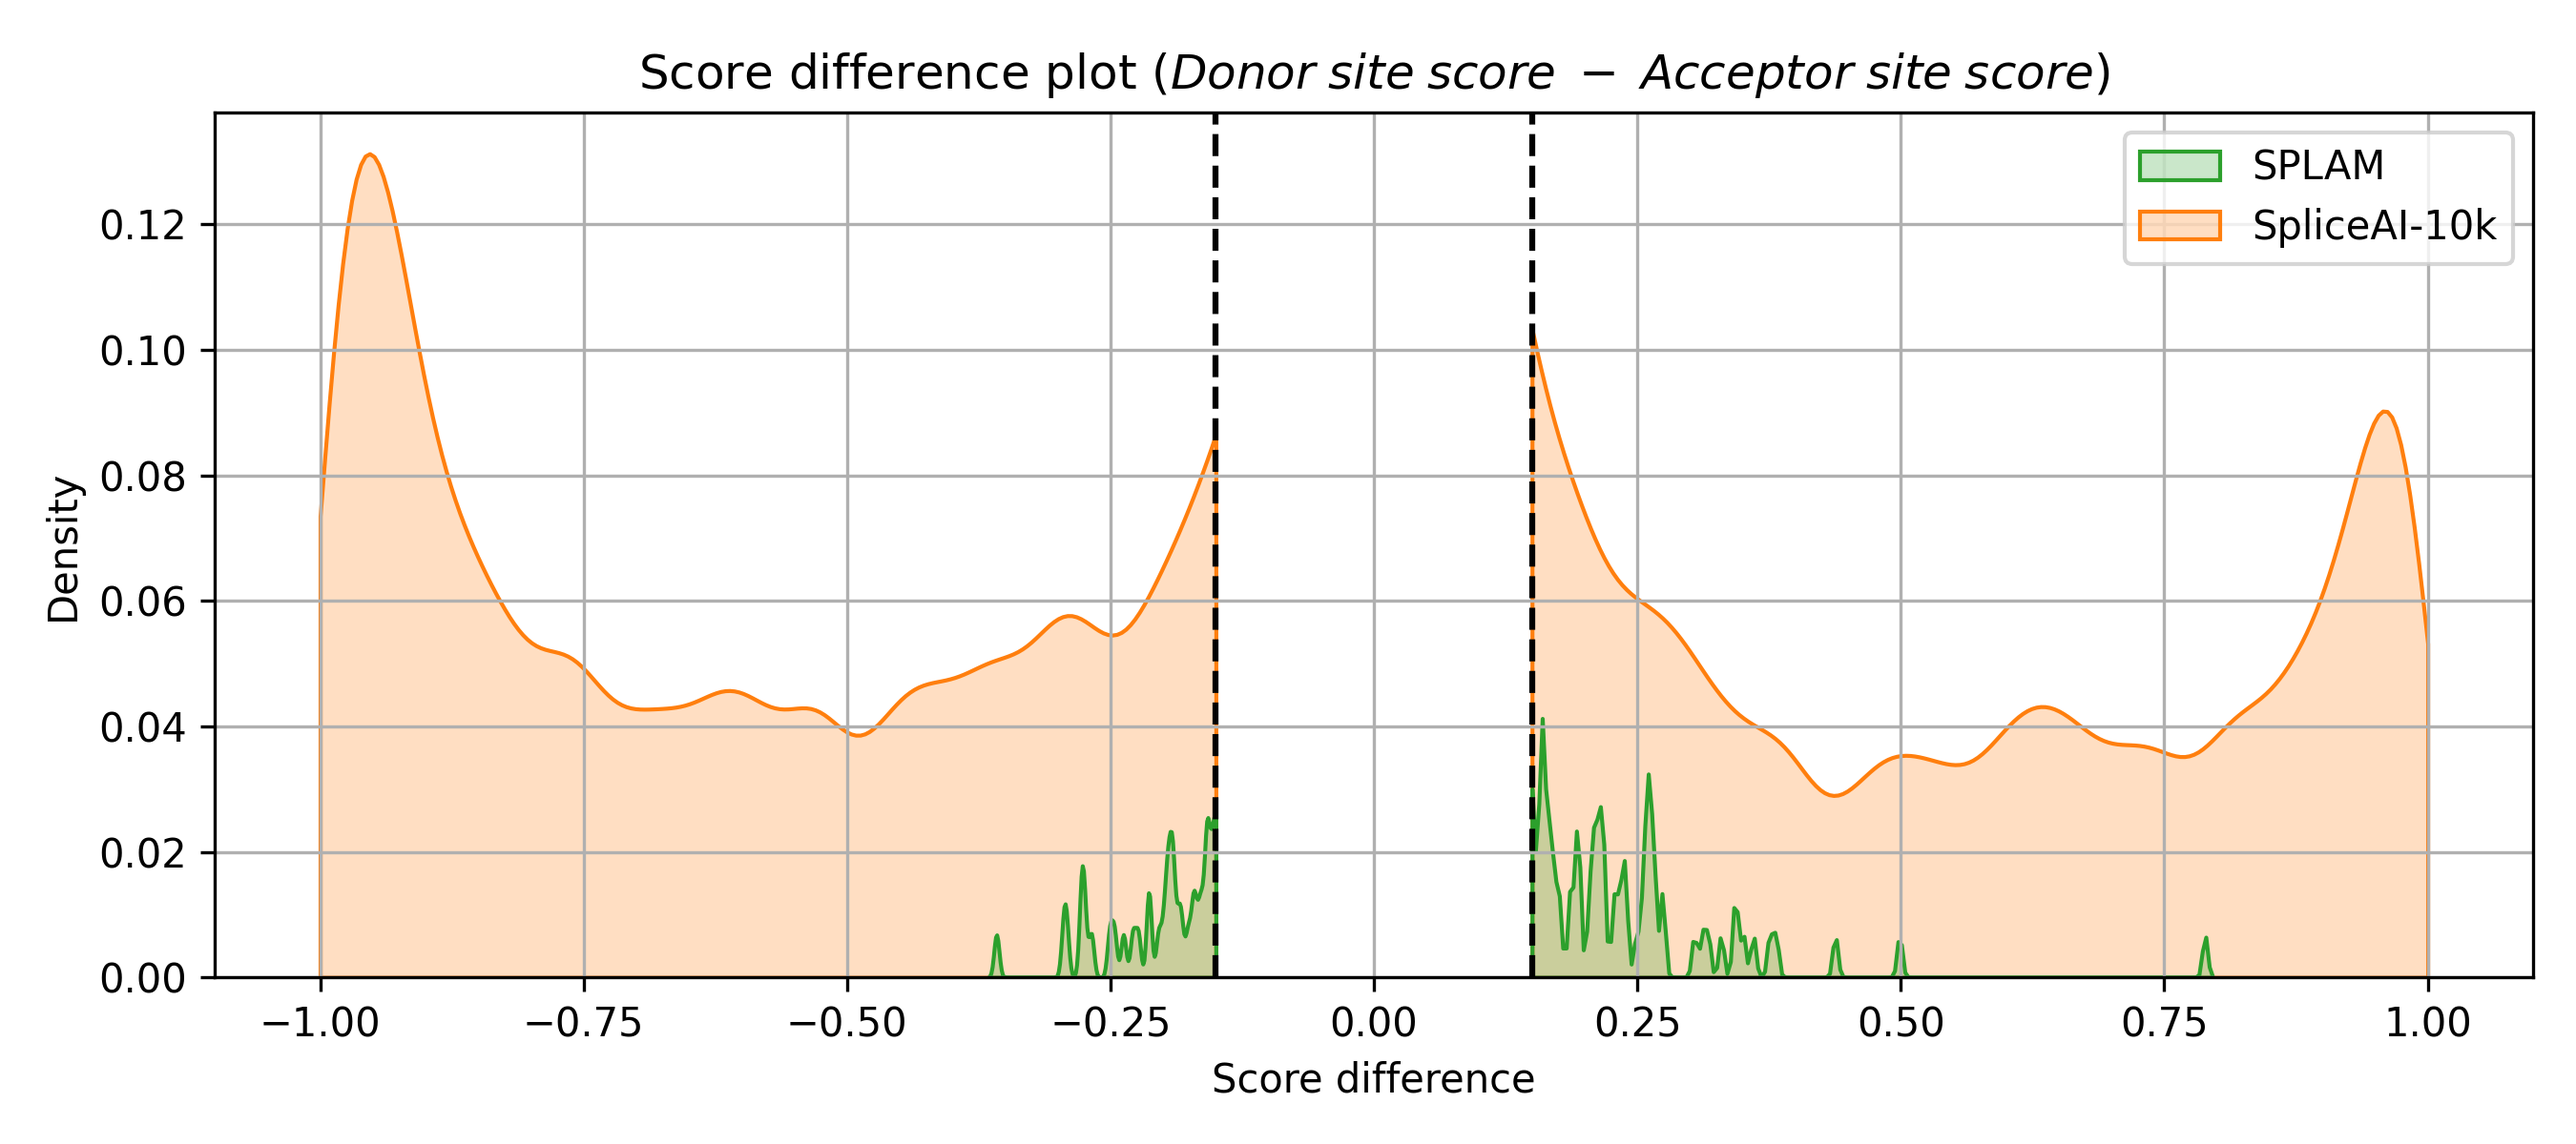
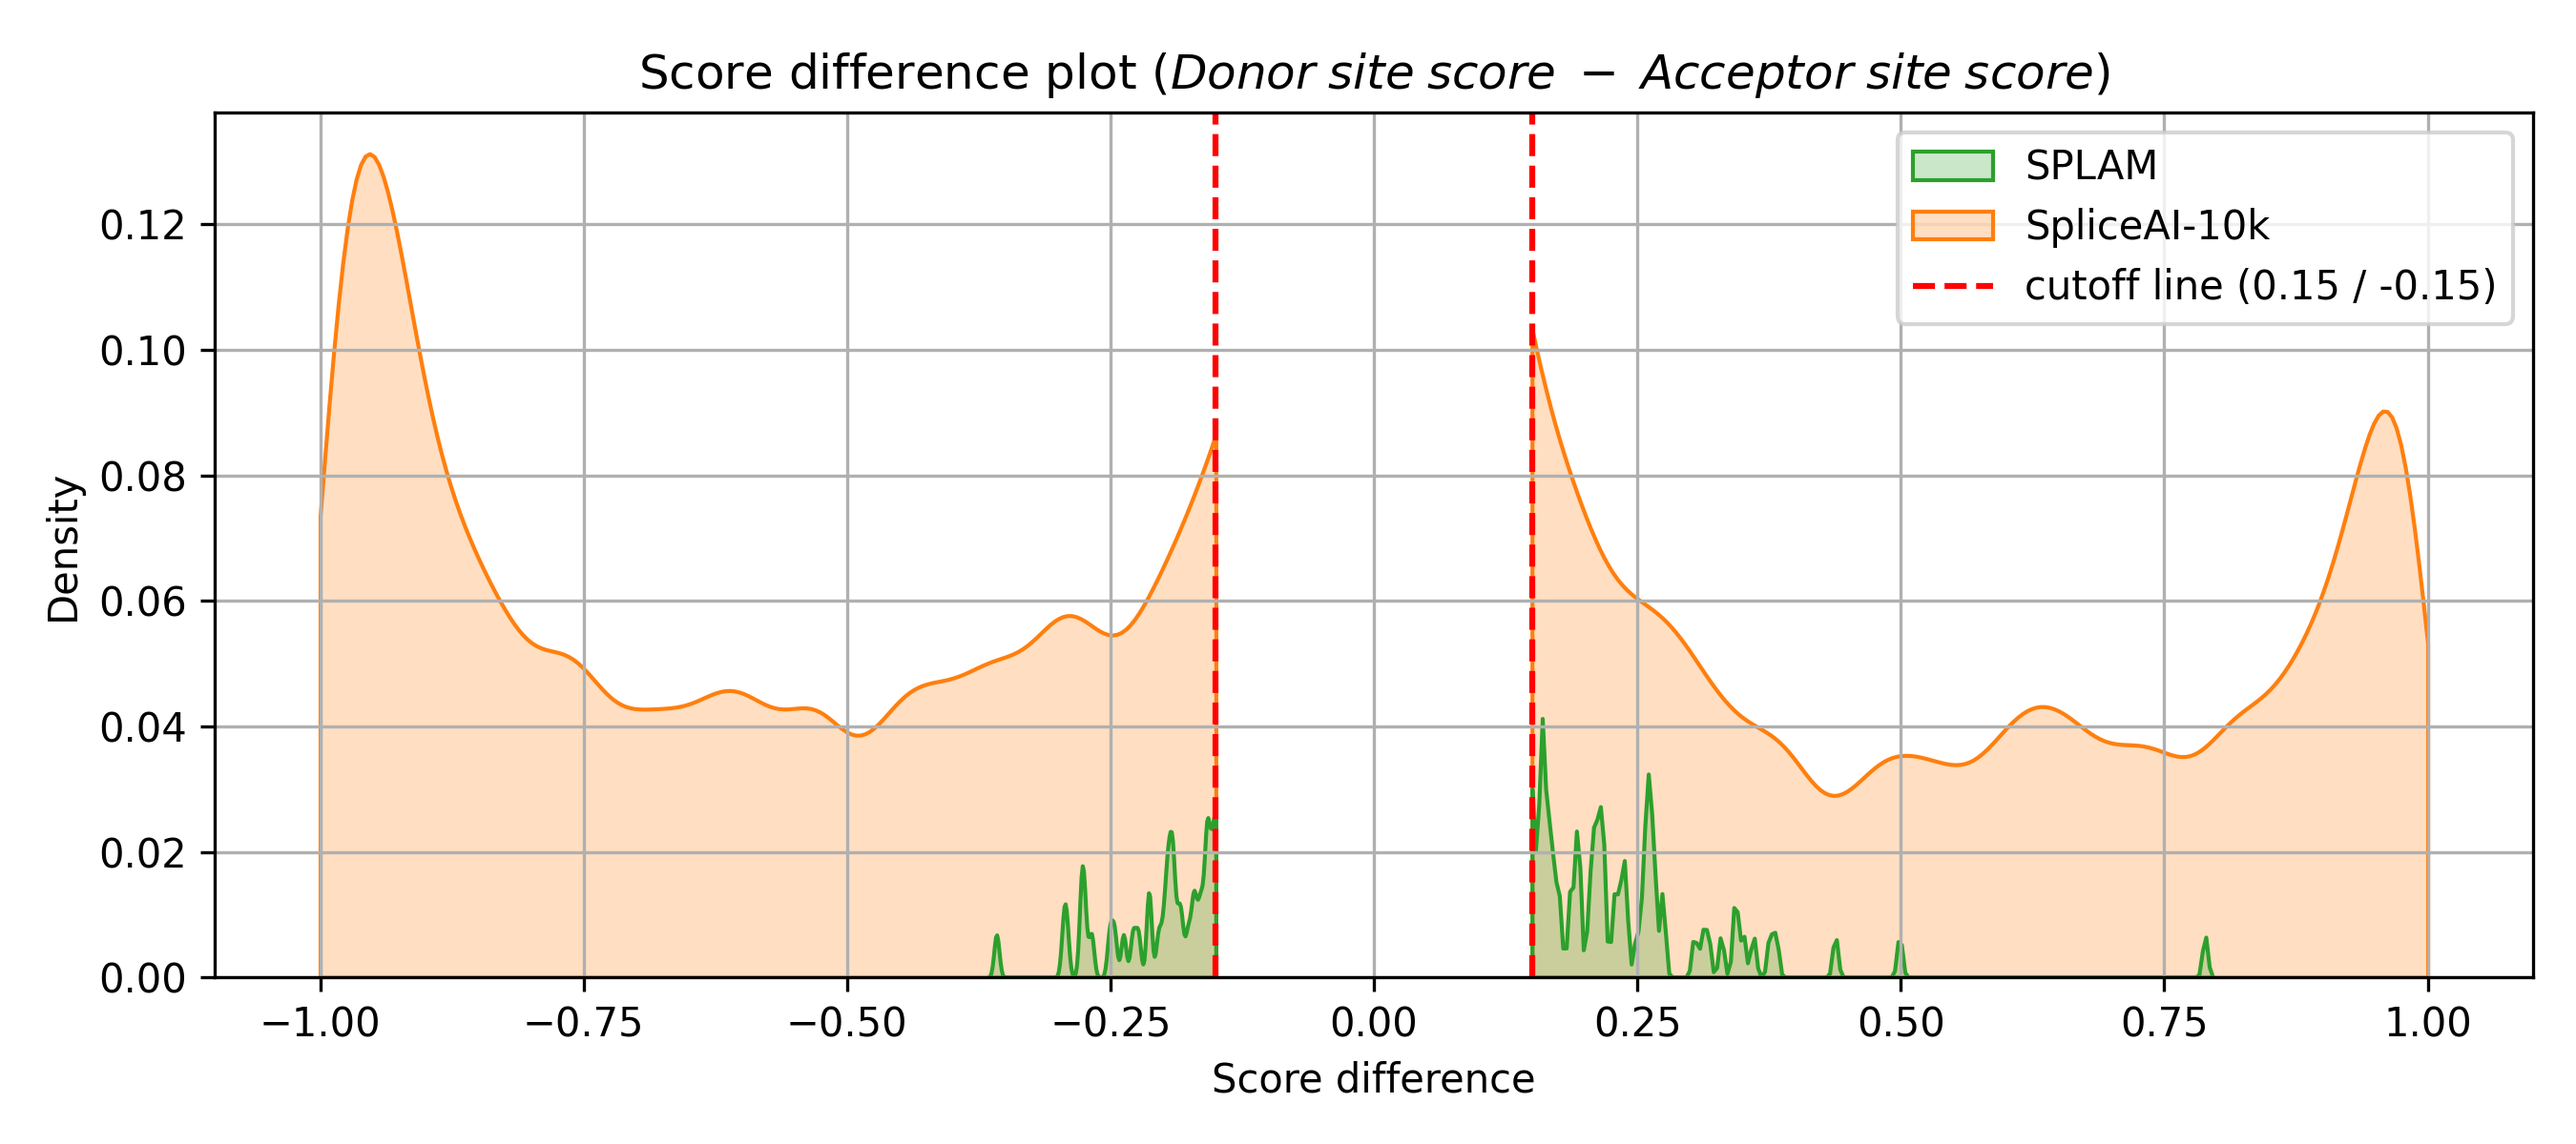
Update figure 2

Changed region(s): [[0.7156, 0.0925, 0.9644, 0.3083]]

diff --git a/Figures/Figure_2/d_a_score_diff.py b/Figures/Figure_2/d_a_score_diff.py
@@ -125,8 +125,8 @@ def main():
                 #     sns.kdeplot(score_N_diff, shade=True, clip = (-1.0, -0.15), alpha=0.25, label="SpliceAI-10k-Ns", color="#4C72B0")#, cut = -0.15)
                 #     sns.kdeplot(score_N_diff, shade=True, clip = (0.15, 1.0), alpha=0.25, color="#4C72B0")#, cut = 0.15)
                 
-                plt.axvline(x=-0.15, linestyle='--', color='black', label = "cutoff line (0.15 / -0.15)" )#, label='Optimal Threshold (maximum F1 score)')
-                plt.axvline(x=0.15, linestyle='--', color='black')#, label='Optimal Threshold (maximum F1 score)')
+                plt.axvline(x=-0.15, linestyle='--', color='r', label = "cutoff line (0.15 / -0.15)" )#, label='Optimal Threshold (maximum F1 score)')
+                plt.axvline(x=0.15, linestyle='--', color='r')#, label='Optimal Threshold (maximum F1 score)')
 
 
                 plt.xlabel('Score difference')
@@ -144,7 +144,7 @@ def main():
                 handles, labels = plt.gca().get_legend_handles_labels()
 
                 #specify order of items in legend
-                order = [1, 0]
+                order = [1, 0, 2]
 
                 #add legend to plot
                 plt.legend([handles[idx] for idx in order],[labels[idx] for idx in order], loc="upper right")
